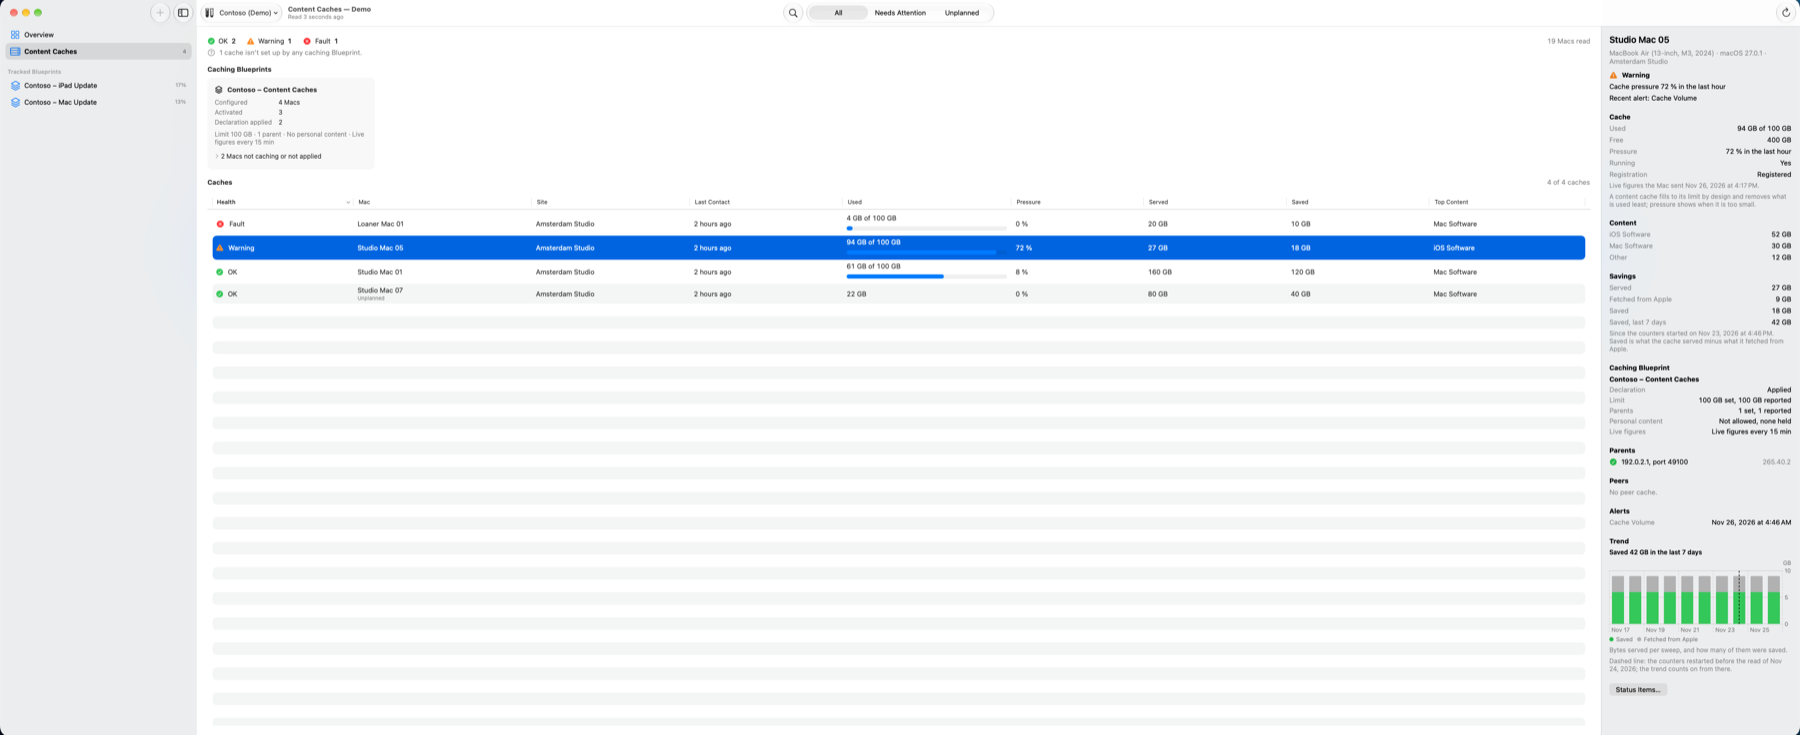
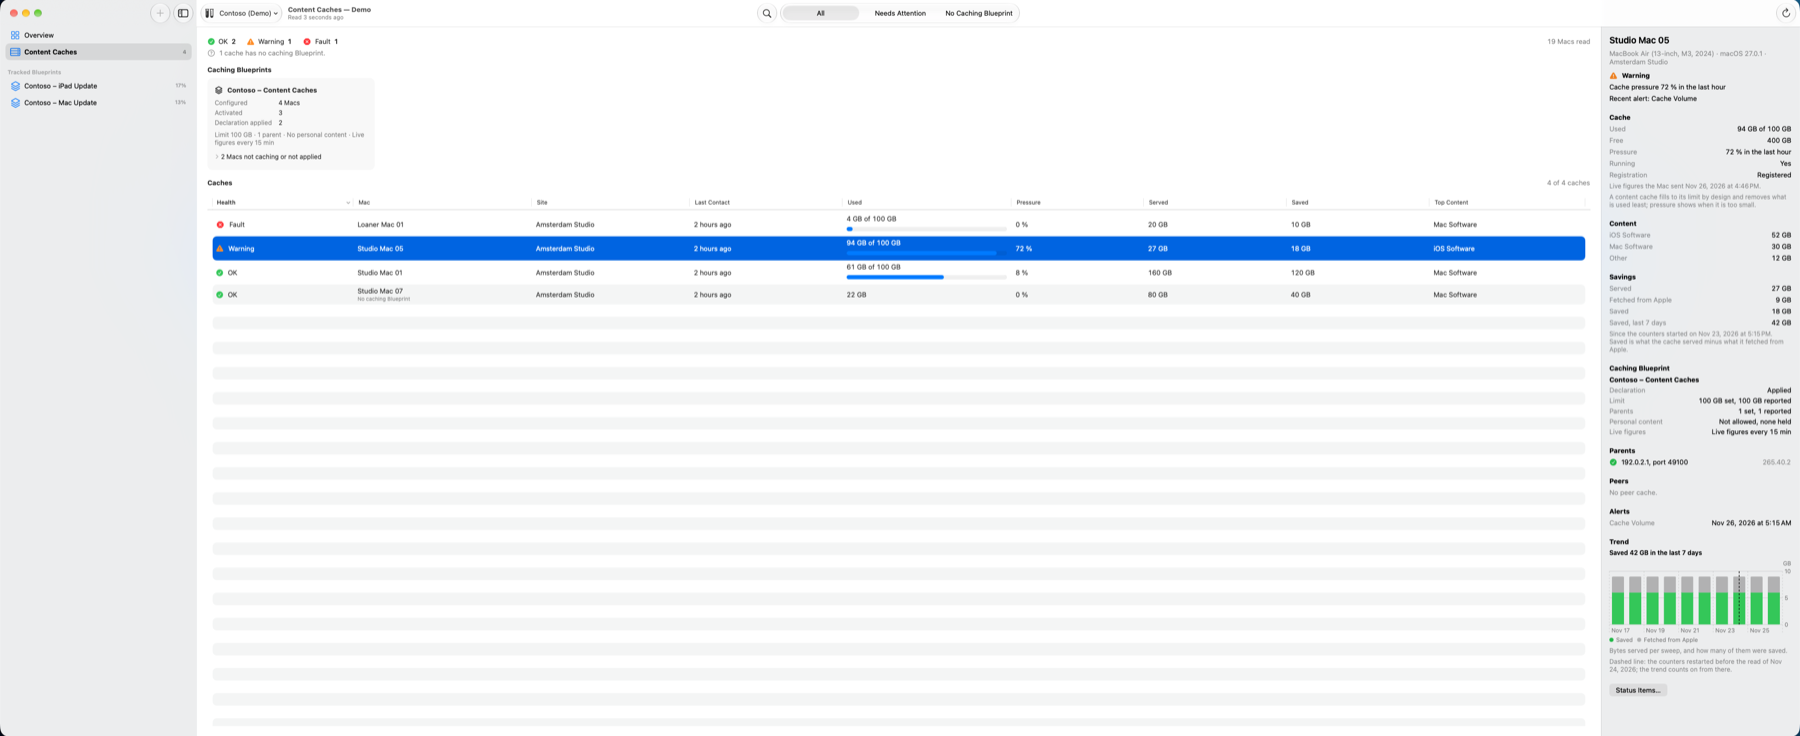
0.4.0: “No caching Blueprint” instead of “Unplanned”
A cache no caching Blueprint reaches is shown as “No caching Blueprint”: the
filter, the row, the summary, the detail, Help, the README and the
changelog. Help says that caches set up with a configuration profile or by
hand show there too, since the app can't see which payloads a profile
holds. The logic is unchanged. The README screenshot is taken again, in
the light appearance.

diff --git a/Software Update Dashboard/Logic/HelpContent.swift b/Software Update Dashboard/Logic/HelpContent.swift
@@ -70,7 +70,8 @@ nonisolated enum HelpContent {
 
     static let caches = HelpTopic(id: "content-caches", title: "Content Caches", paragraphs: [
         "Content Caches lists every Mac whose content cache is activated, as its inventory in Jamf Pro says. They are read together with Refresh All and the automatic refresh, or with Refresh on the Content Caches page. Every Mac’s inventory is read, because Jamf’s list can’t be limited to caches; nothing changes in Jamf.",
-        "Caching Blueprints are the Blueprints that send Apple’s content caching declaration. For each one the page shows how many Macs its scope reaches, how many of them have an activated cache and on how many the declaration is applied. A cache that no caching Blueprint sets up is listed as unplanned.",
+        "Caching Blueprints are the Blueprints that send Apple’s content caching declaration. For each one the page shows how many Macs its scope reaches, how many of them have an activated cache and on how many the declaration is applied. A cache that no caching Blueprint reaches is listed under No Caching Blueprint.",
+        "Caches set up with a Jamf Pro configuration profile (the Content Caching payload) or by hand on the Mac also show as No Caching Blueprint: the app can’t see which payloads a profile holds, so it can’t tell them from a cache nobody set up.",
         "Saved is what a cache served to devices, to its peers and to the caches below it, minus what it had to fetch from Apple, since its counters started. Bytes held as personal (iCloud) content are shown, never counted as a saving on their own. When a cache’s counters start again, for example after it was turned off and on, the trend marks it and counts on from there.",
         "Fault: the cache is activated but not running, its status or startup status isn’t OK, its registration with Apple failed, every parent cache is unhealthy, or Jamf Pro has no inventory report of the Mac for more than 7 days.",
         "Warning: its registration is pending, its cache pressure reached 50 % or more in the last hour, a parent cache is unhealthy, it posted an alert in the last 24 hours, it is moving its data or a move failed, Jamf Pro has no inventory report for more than 48 hours, or its caching Blueprint’s declaration isn’t applied.",

diff --git a/Software Update Dashboard/Views/CachesView.swift b/Software Update Dashboard/Views/CachesView.swift
@@ -190,7 +190,7 @@ struct CachesView: View {
     }
 }
 
-/// How many caches are in each health, and the unplanned ones.
+/// How many caches are in each health, and how many no caching Blueprint reaches.
 struct CachesSummary: View {
     let record: CacheSweepRecord
 
@@ -212,7 +212,7 @@ struct CachesSummary: View {
             }
             let unplanned = record.unplanned.count
             if unplanned > 0 {
-                Label("\(Plural.count(unplanned, "cache")) \(unplanned == 1 ? "isn’t" : "aren’t") set up by any caching Blueprint.",
+                Label("\(Plural.count(unplanned, "cache")) \(unplanned == 1 ? "has" : "have") no caching Blueprint.",
                       systemImage: "questionmark.circle")
                     .foregroundStyle(.secondary)
             }
@@ -298,7 +298,7 @@ struct CachesTable: View {
             TableColumn("Mac", value: \.name) { row in
                 VStack(alignment: .leading, spacing: 1) {
                     Text(row.name)
-                    if row.isUnplanned { Text("Unplanned").font(.caption).foregroundStyle(.secondary) }
+                    if row.isUnplanned { Text("No caching Blueprint").font(.caption).foregroundStyle(.secondary) }
                 }
             }
             .width(min: 120, ideal: 160)
@@ -449,7 +449,8 @@ struct CacheDetailView: View {
     private var blueprints: some View {
         DetailSection("Caching Blueprint") {
             if row.isUnplanned {
-                Text("No caching Blueprint sets up this cache.").foregroundStyle(.secondary)
+                Text("No caching Blueprint reaches this cache. It may be set up with a Jamf Pro configuration profile or by hand.")
+                    .foregroundStyle(.secondary).fixedSize(horizontal: false, vertical: true)
             }
             ForEach(row.declarations, id: \.blueprintID) { declaration in
                 let blueprint = caches.latest?.blueprints.first { $0.id == declaration.blueprintID }

diff --git a/Software Update Dashboard UITests/DemoSmokeUITests.swift b/Software Update Dashboard UITests/DemoSmokeUITests.swift
@@ -201,7 +201,7 @@ final class DemoSmokeUITests: JTKitUITestCase {
     }
 
     /// Content Caches: the sample caches with their health, the caching
-    /// Blueprint, a cache's detail with its trend, the Unplanned filter, and
+    /// Blueprint, a cache's detail with its trend, the No Caching Blueprint filter, and
     /// the caches by site on the Mac Blueprint's dashboard.
     func test16ContentCaches() {
         openSidebar("Content Caches")
@@ -212,8 +212,9 @@ final class DemoSmokeUITests: JTKitUITestCase {
         tap(deviceRow("Studio Mac 05"))
         XCTAssertTrue(any("Cache pressure 72 % in the last hour").waitForExistence(timeout: 10), "The detail doesn't say why")
         XCTAssertTrue(any("Trend").exists, "The detail has no trend")
-        tap(app.radioButtons["Unplanned"].firstMatch, timeout: 10)
-        XCTAssertTrue(deviceRow("Studio Mac 07").waitForExistence(timeout: 10), "The unplanned cache isn't listed")
+        tap(app.radioButtons["No Caching Blueprint"].firstMatch, timeout: 10)
+        XCTAssertTrue(deviceRow("Studio Mac 07").waitForExistence(timeout: 10), "The cache without a caching Blueprint isn't listed")
+        XCTAssertTrue(any("No caching Blueprint").exists, "The row doesn't say it has no caching Blueprint")
         XCTAssertTrue(waitForGone(deviceRow("Studio Mac 05")), "The filter didn't hide the planned caches")
 
         openBlueprint(macBlueprint)

diff --git a/Software Update Dashboard Tests/LiveCheckTests.swift b/Software Update Dashboard Tests/LiveCheckTests.swift
@@ -438,7 +438,7 @@ struct LiveCacheSweepTests {
             let withItems = result.caches.filter { $0.status != nil }.count
             record(run, step("content caches found"), passed: true,
                    note: "\(result.caches.count) caches (\(levels.joined(separator: ", "))), \(withItems) with content-cache status items, "
-                       + "\(result.unplanned.count) unplanned")
+                       + "\(result.unplanned.count) with no caching Blueprint")
             let configured = result.cachingBlueprints.map(\.configured.count).reduce(0, +)
             record(run, step("caching Blueprints found (blueprints:read, declarations:read)"), passed: true,
                    note: "\(result.cachingBlueprints.count) caching Blueprints, \(configured) Macs configured, "

diff --git a/Software Update Dashboard/State/CachesModel.swift b/Software Update Dashboard/State/CachesModel.swift
@@ -185,7 +185,9 @@ final class CachesModel {
 enum CacheFilter: String, CaseIterable, Identifiable {
     case all = "All"
     case attention = "Needs Attention"
-    case unplanned = "Unplanned"
+    /// Activated, and no caching Blueprint reaches it (`isUnplanned`): also a
+    /// cache set up with a configuration profile or by hand.
+    case unplanned = "No Caching Blueprint"
     var id: String { rawValue }
 
     /// The View menu’s name.
@@ -193,7 +195,7 @@ enum CacheFilter: String, CaseIterable, Identifiable {
         switch self {
         case .all: "All Caches"
         case .attention: "Caches Needing Attention"
-        case .unplanned: "Unplanned Caches"
+        case .unplanned: "Caches Without a Caching Blueprint"
         }
     }
 }

diff --git a/Software Update Dashboard UITests/ScreenshotUITests.swift b/Software Update Dashboard UITests/ScreenshotUITests.swift
@@ -18,8 +18,9 @@ final class ScreenshotUITests: JTKitUITestCase {
         try super.setUpWithError()
     }
 
+    /// Light appearance whatever the Mac is set to, so every screenshot matches.
     override func launchApp() {
-        launchInDemo(arguments: ["-AppleLanguages", "(en-US)", "-AppleLocale", "en_US"])
+        launchInDemo(arguments: ["-AppleLanguages", "(en-US)", "-AppleLocale", "en_US", "-NSRequiresAquaSystemAppearance", "YES"])
     }
 
     override func didLaunch() {

diff --git a/docs/PLAN.md b/docs/PLAN.md
@@ -214,10 +214,10 @@ Order: A, B with C and M, L, D, G, I, J, K (as planned for 0.2 before the renumb
 
 Part 2 of `_release-gate/content-caching-plan.md` (outside the repo), on branch `0.4`, with JTKit 1.11.0 (branch `release-1.11.0`). Read only; no new permission (the computer inventory’s `CONTENT_CACHING` section needs `devices:read`, Jamf’s Platform API reference).
 
-- **Content Caches** in the sidebar, always (with an empty state when nothing was found): a health summary, the caching Blueprints (configured, activated, declaration applied, and the Macs not caching or not applied), and a table of every activated cache (health, Mac, site, last contact, used against its limit, pressure, served, saved, top content) with All, Needs Attention and Unplanned, sortable on every column. Read on first open, with Refresh (⌘R) or Stop Refresh (⌘.), Refresh All and the automatic refresh (after the tracked Blueprints). The filter is in the View menu too.
+- **Content Caches** in the sidebar, always (with an empty state when nothing was found): a health summary, the caching Blueprints (configured, activated, declaration applied, and the Macs not caching or not applied), and a table of every activated cache (health, Mac, site, last contact, used against its limit, pressure, served, saved, top content) with All, Needs Attention and No Caching Blueprint, sortable on every column. Read on first open, with Refresh (⌘R) or Stop Refresh (⌘.), Refresh All and the automatic refresh (after the tracked Blueprints). The filter is in the View menu too.
 - **The detail** in an inspector: the health and its reasons, the figures (from the inventory, or the live figures a macOS 27 Mac sends when its declaration asks for them), its content, savings (since its counters started, and the last 7 and 30 days from the trend), the caching Blueprint’s settings against what the Mac reports, parents, peers (macOS 27), alerts, the trend with a mark where the counters restarted, and Status Items….
 - **Health** is JTKit’s, with its defaults: Fault when activated but not running, a cache or startup status other than OK, registration failed, every parent unhealthy, or no inventory for 7 days; Warning for registration pending, pressure of 50 % or more, a parent unhealthy, an alert in the last 24 hours, data moving or a failed move, no inventory for 48 hours, or the declaration not applied. How full a cache is is never a rule: it fills to its limit by design.
-- **Unplanned:** an activated cache that no caching Blueprint’s scope reaches and that holds none of their declarations.
+- **No caching Blueprint** (in code `isUnplanned`; renamed from “Unplanned” after the review, 2026-11-26): an activated cache that no caching Blueprint’s scope reaches and that holds none of their declarations. Caches set up with a Jamf Pro configuration profile or by hand show here too: the inventory doesn’t say which payloads a Mac’s profiles hold.
 - **By site:** on a Blueprint’s dashboard and in its PDF, the worst health of the caches in each site of its devices (from `DeviceStatus.siteName`, kept in the history), or “No cache”; shown only when the last sweep found a cache. Show Caches opens Content Caches on that site.
 - **Stored** in `ContentCaches/<connection ID>/`: one file per sweep, `trend.index`, `known-blueprints.plist`; kept as the history. Demo Mode in memory, seeded with JTKit’s ten days of sample sweeps.
 - **Live check:** one sweep on the production role, counts only.

diff --git a/README.md b/README.md
@@ -28,7 +28,7 @@ A read-only Mac app that shows, for the devices a Blueprint is scoped to, whethe
 - **Find a Device** (⇧⌘F): a device by serial number or name in every tracked Blueprint, opened in its Blueprint’s device list.
 - **Open in Jamf Pro:** a device (from its detail, the device list or Device › Open in Jamf Pro, ⌥⌘O) or the Blueprint, in your browser, read-only. It uses the Jamf Pro web address you add to the connection in Settings › Connections.
 - **Device details:** Rapid Security Response, beta program, why the pending update started, failures, FileVault and battery health; all of a device’s status items on request, with a filter and Copy (not saved).
-- **Content Caches:** every Mac whose content cache is activated, with its health (OK, Warning or Fault, and why), last contact, cache used against its limit, pressure, bytes served, savings and its main content. The detail shows what the cache’s Blueprint sets against what the Mac reports, its parents, its peers (macOS 27), its alerts and its trend. The Blueprints that set up caches show how many of their Macs are configured, activated and applied; caches no Blueprint sets up are marked unplanned. A Blueprint’s dashboard shows the content caches in each site of its devices. Read with Refresh All and the automatic refresh, or on the page itself.
+- **Content Caches:** every Mac whose content cache is activated, with its health (OK, Warning or Fault, and why), last contact, cache used against its limit, pressure, bytes served, savings and its main content. The detail shows what the cache’s Blueprint sets against what the Mac reports, its parents, its peers (macOS 27), its alerts and its trend. The Blueprints that set up caches show how many of their Macs are configured, activated and applied; caches no caching Blueprint reaches, including those set up with a configuration profile or by hand, are marked “No caching Blueprint”. A Blueprint’s dashboard shows the content caches in each site of its devices. Read with Refresh All and the automatic refresh, or on the page itself.
 - **History** of every refresh, per tracked Blueprint.
 - **Unsupported hardware** with a replacement list: the model, how many devices, and the last version it can run.
 - **Deadlines per time zone:** the deadline is each device’s local time, and unusual time zones are pointed out. Jamf Pro has no time zone for Macs, so a Mac’s computed deadline is measured in this Mac’s time zone. A downloaded update counts as stuck 4 hours after its deadline, and an install as long after 4 hours; status times are read in the connection’s Jamf Pro server time zone (Jamf Cloud normally uses UTC); when a refresh finds that setting looks wrong, the Blueprint’s dashboard and Settings › Connections say so.

diff --git a/CHANGELOG.md b/CHANGELOG.md
@@ -2,9 +2,9 @@
 
 ## 0.4.0 — unreleased
 
-- **Content Caches:** a new page in the sidebar lists every Mac whose content cache is activated, with its health (OK, Warning or Fault, and why), last contact, cache used against its limit, pressure, bytes served, savings and main content. Show all caches, those that need attention or the unplanned ones, and sort on any column.
+- **Content Caches:** a new page in the sidebar lists every Mac whose content cache is activated, with its health (OK, Warning or Fault, and why), last contact, cache used against its limit, pressure, bytes served, savings and main content. Show all caches, those that need attention or those without a caching Blueprint, and sort on any column.
 - **A cache’s detail:** what its caching Blueprint sets against what the Mac reports, its parents, its peers on macOS 27, its alerts, and its trend of savings, with a mark where its counters started again. Status Items… shows the Mac’s whole status report.
-- **Caching Blueprints:** each Blueprint that sets up content caching shows how many of its Macs are configured, activated and have the declaration applied, and lists the Macs that aren’t caching yet. Caches that no Blueprint sets up are marked unplanned.
+- **Caching Blueprints:** each Blueprint that sets up content caching shows how many of its Macs are configured, activated and have the declaration applied, and lists the Macs that aren’t caching yet. Caches that no caching Blueprint reaches, including those set up with a configuration profile or by hand, are marked “No caching Blueprint”.
 - **Content caches by site** on a Blueprint’s dashboard and in its PDF report: the worst health of the caches in each site of its devices, or that a site has none. Show Caches opens that site’s caches.
 - **Refresh All and the automatic refresh** also read the content caches, after the tracked Blueprints. Nothing new to grant: the app uses the same read permissions as before.
 - **Help** has a Content Caches section explaining what counts as a cache, how savings are worked out and when a cache gets a Warning or a Fault.
